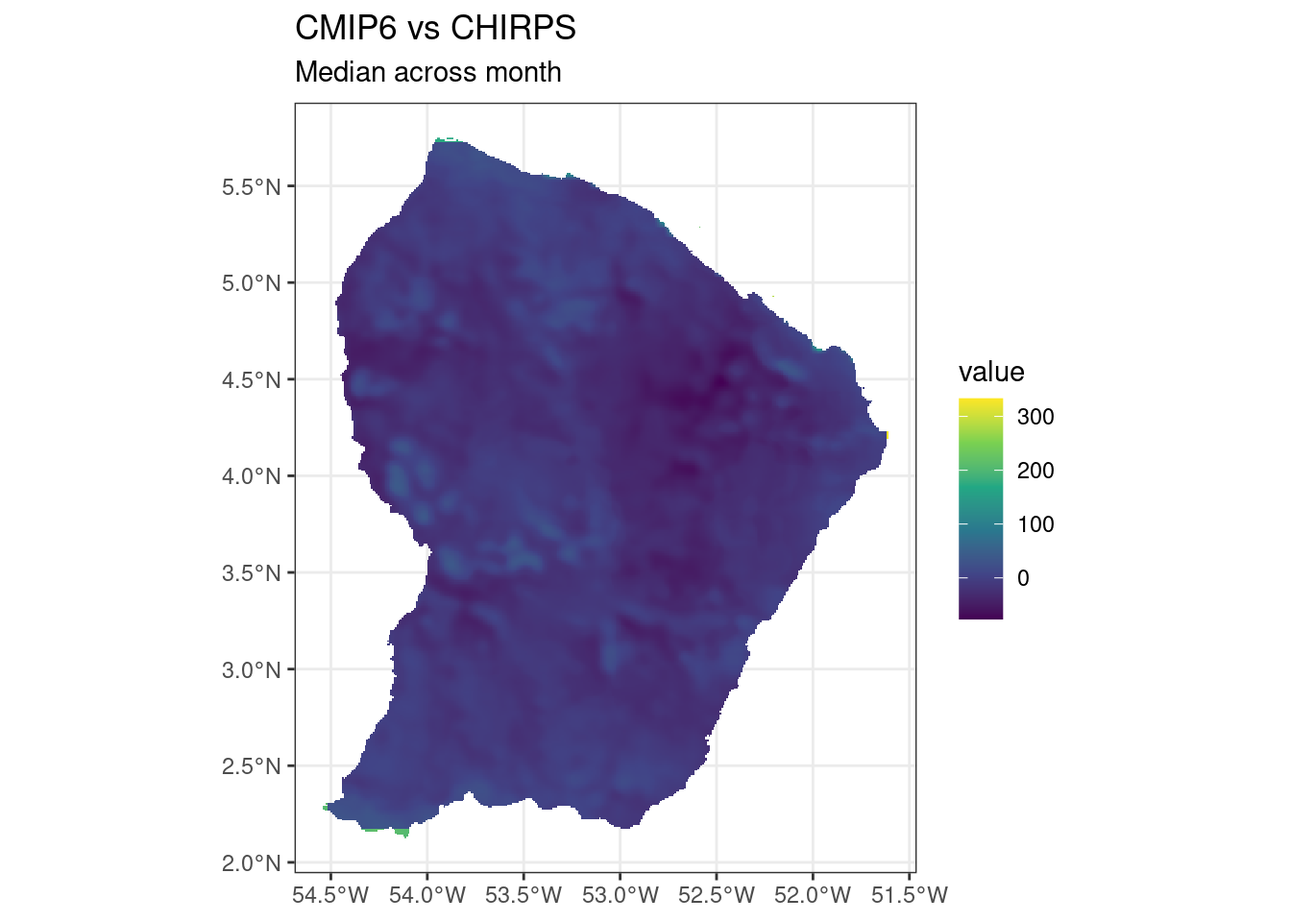
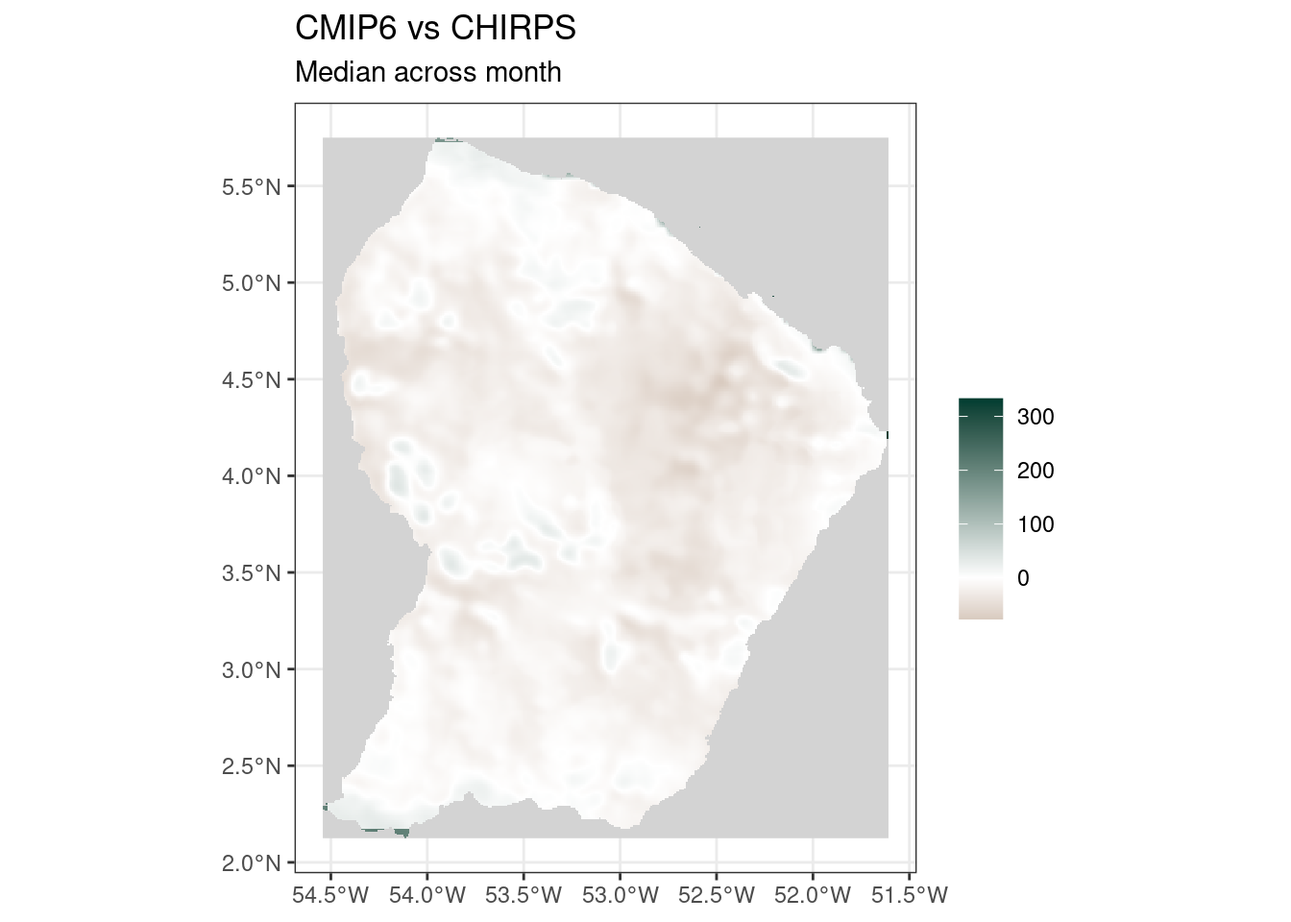
DownClim 0.1.0.9042: better bias map

diff --git a/docs/03_bias.html b/docs/03_bias.html
@@ -257,7 +257,7 @@ pre > code.sourceCode > span > a:first-child::before { text-decoration: underlin
 <span id="cb1-5"><a href="#cb1-5" aria-hidden="true" tabindex="-1"></a>  tidyterra<span class="sc">::</span><span class="fu">geom_spatraster</span>(<span class="at">data =</span> cmip6) <span class="sc">+</span></span>
 <span id="cb1-6"><a href="#cb1-6" aria-hidden="true" tabindex="-1"></a>  <span class="fu">theme_bw</span>() <span class="sc">+</span></span>
 <span id="cb1-7"><a href="#cb1-7" aria-hidden="true" tabindex="-1"></a>  <span class="fu">ggtitle</span>(<span class="st">"CMIP6 vs CHIRPS"</span>, <span class="st">"Median across month"</span>) <span class="sc">+</span></span>
-<span id="cb1-8"><a href="#cb1-8" aria-hidden="true" tabindex="-1"></a>  <span class="fu">scale_fill_viridis_c</span>(<span class="at">na.value =</span> <span class="cn">NA</span>)</span></code><button title="Copy to Clipboard" class="code-copy-button"><i class="bi"></i></button></pre></div>
+<span id="cb1-8"><a href="#cb1-8" aria-hidden="true" tabindex="-1"></a>  <span class="fu">scale_fill_gradient2</span>(<span class="st">""</span>, <span class="at">low =</span> <span class="st">"#543005"</span>, <span class="at">mid =</span> <span class="st">"white"</span>, <span class="at">high =</span> <span class="st">"#003c30"</span>, <span class="at">midpoint =</span> <span class="dv">0</span>, <span class="at">na.value =</span> <span class="st">"lightgrey"</span>)</span></code><button title="Copy to Clipboard" class="code-copy-button"><i class="bi"></i></button></pre></div>
 </details>
 <div class="cell-output-display">
 <p><img src="03_bias_files/figure-html/unnamed-chunk-1-1.png" class="img-fluid" width="672"></p>
@@ -266,12 +266,14 @@ pre > code.sourceCode > span > a:first-child::before { text-decoration: underlin
 <div class="cell">
 <details>
 <summary>Code</summary>
-<div class="sourceCode cell-code" id="cb2"><pre class="sourceCode r code-with-copy"><code class="sourceCode r"><span id="cb2-1"><a href="#cb2-1" aria-hidden="true" tabindex="-1"></a>cordex <span class="ot">&lt;-</span> <span class="fu">rast</span>(<span class="st">"results/evaluation/bias/Côte-d'Ivoire_CORDEX_chirps.nc"</span>)[[<span class="dv">1</span><span class="sc">:</span><span class="dv">12</span>]] <span class="sc">%&gt;%</span> <span class="fu">median</span>()</span>
-<span id="cb2-2"><a href="#cb2-2" aria-hidden="true" tabindex="-1"></a><span class="fu">ggplot</span>() <span class="sc">+</span></span>
-<span id="cb2-3"><a href="#cb2-3" aria-hidden="true" tabindex="-1"></a>  tidyterra<span class="sc">::</span><span class="fu">geom_spatraster</span>(<span class="at">data =</span> cordex) <span class="sc">+</span></span>
-<span id="cb2-4"><a href="#cb2-4" aria-hidden="true" tabindex="-1"></a>  <span class="fu">theme_bw</span>() <span class="sc">+</span></span>
-<span id="cb2-5"><a href="#cb2-5" aria-hidden="true" tabindex="-1"></a>  <span class="fu">ggtitle</span>(<span class="st">"CORDEX vs CHIRPS"</span>, <span class="st">"Median across month"</span>) <span class="sc">+</span></span>
-<span id="cb2-6"><a href="#cb2-6" aria-hidden="true" tabindex="-1"></a>  <span class="fu">scale_fill_viridis_c</span>(<span class="at">na.value =</span> <span class="cn">NA</span>)</span></code><button title="Copy to Clipboard" class="code-copy-button"><i class="bi"></i></button></pre></div>
+<div class="sourceCode cell-code" id="cb2"><pre class="sourceCode r code-with-copy"><code class="sourceCode r"><span id="cb2-1"><a href="#cb2-1" aria-hidden="true" tabindex="-1"></a>cordex <span class="ot">&lt;-</span> <span class="fu">rast</span>(<span class="st">"results/evaluation/bias/Côte-d'Ivoire_CORDEX_chirps.nc"</span>)[[<span class="dv">1</span><span class="sc">:</span><span class="dv">12</span>]] <span class="sc">%&gt;%</span> </span>
+<span id="cb2-2"><a href="#cb2-2" aria-hidden="true" tabindex="-1"></a>  <span class="fu">clamp</span>(<span class="sc">-</span><span class="dv">500</span>, <span class="dv">500</span>) <span class="sc">%&gt;%</span> </span>
+<span id="cb2-3"><a href="#cb2-3" aria-hidden="true" tabindex="-1"></a>  <span class="fu">median</span>()</span>
+<span id="cb2-4"><a href="#cb2-4" aria-hidden="true" tabindex="-1"></a><span class="fu">ggplot</span>() <span class="sc">+</span></span>
+<span id="cb2-5"><a href="#cb2-5" aria-hidden="true" tabindex="-1"></a>  tidyterra<span class="sc">::</span><span class="fu">geom_spatraster</span>(<span class="at">data =</span> cordex) <span class="sc">+</span></span>
+<span id="cb2-6"><a href="#cb2-6" aria-hidden="true" tabindex="-1"></a>  <span class="fu">theme_bw</span>() <span class="sc">+</span></span>
+<span id="cb2-7"><a href="#cb2-7" aria-hidden="true" tabindex="-1"></a>  <span class="fu">ggtitle</span>(<span class="st">"CORDEX vs CHIRPS"</span>, <span class="st">"Median across month"</span>) <span class="sc">+</span></span>
+<span id="cb2-8"><a href="#cb2-8" aria-hidden="true" tabindex="-1"></a>  <span class="fu">scale_fill_gradient2</span>(<span class="st">""</span>, <span class="at">low =</span> <span class="st">"#543005"</span>, <span class="at">mid =</span> <span class="st">"white"</span>, <span class="at">high =</span> <span class="st">"#003c30"</span>, <span class="at">midpoint =</span> <span class="dv">0</span>, <span class="at">na.value =</span> <span class="st">"lightgrey"</span>)</span></code><button title="Copy to Clipboard" class="code-copy-button"><i class="bi"></i></button></pre></div>
 </details>
 <div class="cell-output-display">
 <p><img src="03_bias_files/figure-html/unnamed-chunk-2-1.png" class="img-fluid" width="672"></p>
@@ -290,7 +292,7 @@ pre > code.sourceCode > span > a:first-child::before { text-decoration: underlin
 <span id="cb3-5"><a href="#cb3-5" aria-hidden="true" tabindex="-1"></a>  tidyterra<span class="sc">::</span><span class="fu">geom_spatraster</span>(<span class="at">data =</span> cmip6) <span class="sc">+</span></span>
 <span id="cb3-6"><a href="#cb3-6" aria-hidden="true" tabindex="-1"></a>  <span class="fu">theme_bw</span>() <span class="sc">+</span></span>
 <span id="cb3-7"><a href="#cb3-7" aria-hidden="true" tabindex="-1"></a>  <span class="fu">ggtitle</span>(<span class="st">"CMIP6 vs CHIRPS"</span>, <span class="st">"Median across month"</span>) <span class="sc">+</span></span>
-<span id="cb3-8"><a href="#cb3-8" aria-hidden="true" tabindex="-1"></a>  <span class="fu">scale_fill_viridis_c</span>(<span class="at">na.value =</span> <span class="cn">NA</span>)</span></code><button title="Copy to Clipboard" class="code-copy-button"><i class="bi"></i></button></pre></div>
+<span id="cb3-8"><a href="#cb3-8" aria-hidden="true" tabindex="-1"></a>  <span class="fu">scale_fill_gradient2</span>(<span class="st">""</span>, <span class="at">low =</span> <span class="st">"#543005"</span>, <span class="at">mid =</span> <span class="st">"white"</span>, <span class="at">high =</span> <span class="st">"#003c30"</span>, <span class="at">midpoint =</span> <span class="dv">0</span>, <span class="at">na.value =</span> <span class="st">"lightgrey"</span>)</span></code><button title="Copy to Clipboard" class="code-copy-button"><i class="bi"></i></button></pre></div>
 </details>
 <div class="cell-output-display">
 <p><img src="03_bias_files/figure-html/unnamed-chunk-3-1.png" class="img-fluid" width="672"></p>
@@ -306,7 +308,7 @@ pre > code.sourceCode > span > a:first-child::before { text-decoration: underlin
 <span id="cb4-5"><a href="#cb4-5" aria-hidden="true" tabindex="-1"></a>  tidyterra<span class="sc">::</span><span class="fu">geom_spatraster</span>(<span class="at">data =</span> cordex) <span class="sc">+</span></span>
 <span id="cb4-6"><a href="#cb4-6" aria-hidden="true" tabindex="-1"></a>  <span class="fu">theme_bw</span>() <span class="sc">+</span></span>
 <span id="cb4-7"><a href="#cb4-7" aria-hidden="true" tabindex="-1"></a>  <span class="fu">ggtitle</span>(<span class="st">"CORDEX vs CHIRPS"</span>, <span class="st">"Median across month"</span>) <span class="sc">+</span></span>
-<span id="cb4-8"><a href="#cb4-8" aria-hidden="true" tabindex="-1"></a>  <span class="fu">scale_fill_viridis_c</span>(<span class="at">na.value =</span> <span class="cn">NA</span>)</span></code><button title="Copy to Clipboard" class="code-copy-button"><i class="bi"></i></button></pre></div>
+<span id="cb4-8"><a href="#cb4-8" aria-hidden="true" tabindex="-1"></a>  <span class="fu">scale_fill_gradient2</span>(<span class="st">""</span>, <span class="at">low =</span> <span class="st">"#543005"</span>, <span class="at">mid =</span> <span class="st">"white"</span>, <span class="at">high =</span> <span class="st">"#003c30"</span>, <span class="at">midpoint =</span> <span class="dv">0</span>, <span class="at">na.value =</span> <span class="st">"lightgrey"</span>)</span></code><button title="Copy to Clipboard" class="code-copy-button"><i class="bi"></i></button></pre></div>
 </details>
 <div class="cell-output-display">
 <p><img src="03_bias_files/figure-html/unnamed-chunk-4-1.png" class="img-fluid" width="672"></p>
@@ -320,12 +322,13 @@ pre > code.sourceCode > span > a:first-child::before { text-decoration: underlin
 <summary>Code</summary>
 <div class="sourceCode cell-code" id="cb5"><pre class="sourceCode r code-with-copy"><code class="sourceCode r"><span id="cb5-1"><a href="#cb5-1" aria-hidden="true" tabindex="-1"></a>cmip6 <span class="ot">&lt;-</span> <span class="fu">rast</span>(<span class="st">"results/evaluation/bias/New-Caledonia_CMIP6_chirps.nc"</span>)[[<span class="dv">1</span><span class="sc">:</span><span class="dv">12</span>]] <span class="sc">%&gt;%</span> </span>
 <span id="cb5-2"><a href="#cb5-2" aria-hidden="true" tabindex="-1"></a>  <span class="fu">clamp</span>(<span class="sc">-</span><span class="dv">500</span>, <span class="dv">500</span>) <span class="sc">%&gt;%</span> </span>
-<span id="cb5-3"><a href="#cb5-3" aria-hidden="true" tabindex="-1"></a>  <span class="fu">median</span>()</span>
-<span id="cb5-4"><a href="#cb5-4" aria-hidden="true" tabindex="-1"></a><span class="fu">ggplot</span>() <span class="sc">+</span></span>
-<span id="cb5-5"><a href="#cb5-5" aria-hidden="true" tabindex="-1"></a>  tidyterra<span class="sc">::</span><span class="fu">geom_spatraster</span>(<span class="at">data =</span> cmip6) <span class="sc">+</span></span>
-<span id="cb5-6"><a href="#cb5-6" aria-hidden="true" tabindex="-1"></a>  <span class="fu">theme_bw</span>() <span class="sc">+</span></span>
-<span id="cb5-7"><a href="#cb5-7" aria-hidden="true" tabindex="-1"></a>  <span class="fu">ggtitle</span>(<span class="st">"CMIP6 vs CHIRPS"</span>, <span class="st">"Median across month"</span>) <span class="sc">+</span></span>
-<span id="cb5-8"><a href="#cb5-8" aria-hidden="true" tabindex="-1"></a>  <span class="fu">scale_fill_viridis_c</span>(<span class="at">na.value =</span> <span class="cn">NA</span>)</span></code><button title="Copy to Clipboard" class="code-copy-button"><i class="bi"></i></button></pre></div>
+<span id="cb5-3"><a href="#cb5-3" aria-hidden="true" tabindex="-1"></a>  <span class="fu">median</span>() <span class="sc">%&gt;%</span> </span>
+<span id="cb5-4"><a href="#cb5-4" aria-hidden="true" tabindex="-1"></a>  <span class="fu">crop</span>(<span class="fu">c</span>(<span class="dv">163</span>, <span class="fl">168.5</span>, <span class="sc">-</span><span class="dv">23</span>, <span class="sc">-</span><span class="dv">19</span>))</span>
+<span id="cb5-5"><a href="#cb5-5" aria-hidden="true" tabindex="-1"></a><span class="fu">ggplot</span>() <span class="sc">+</span></span>
+<span id="cb5-6"><a href="#cb5-6" aria-hidden="true" tabindex="-1"></a>  tidyterra<span class="sc">::</span><span class="fu">geom_spatraster</span>(<span class="at">data =</span> cmip6) <span class="sc">+</span></span>
+<span id="cb5-7"><a href="#cb5-7" aria-hidden="true" tabindex="-1"></a>  <span class="fu">theme_bw</span>() <span class="sc">+</span></span>
+<span id="cb5-8"><a href="#cb5-8" aria-hidden="true" tabindex="-1"></a>  <span class="fu">ggtitle</span>(<span class="st">"CMIP6 vs CHIRPS"</span>, <span class="st">"Median across month"</span>) <span class="sc">+</span></span>
+<span id="cb5-9"><a href="#cb5-9" aria-hidden="true" tabindex="-1"></a>  <span class="fu">scale_fill_gradient2</span>(<span class="st">""</span>, <span class="at">low =</span> <span class="st">"#543005"</span>, <span class="at">mid =</span> <span class="st">"white"</span>, <span class="at">high =</span> <span class="st">"#003c30"</span>, <span class="at">midpoint =</span> <span class="dv">0</span>, <span class="at">na.value =</span> <span class="st">"lightgrey"</span>)</span></code><button title="Copy to Clipboard" class="code-copy-button"><i class="bi"></i></button></pre></div>
 </details>
 <div class="cell-output-display">
 <p><img src="03_bias_files/figure-html/unnamed-chunk-5-1.png" class="img-fluid" width="672"></p>
@@ -336,12 +339,13 @@ pre > code.sourceCode > span > a:first-child::before { text-decoration: underlin
 <summary>Code</summary>
 <div class="sourceCode cell-code" id="cb6"><pre class="sourceCode r code-with-copy"><code class="sourceCode r"><span id="cb6-1"><a href="#cb6-1" aria-hidden="true" tabindex="-1"></a>cordex <span class="ot">&lt;-</span> <span class="fu">rast</span>(<span class="st">"results/evaluation/bias/New-Caledonia_CORDEX_chirps.nc"</span>)[[<span class="dv">1</span><span class="sc">:</span><span class="dv">12</span>]] <span class="sc">%&gt;%</span> </span>
 <span id="cb6-2"><a href="#cb6-2" aria-hidden="true" tabindex="-1"></a>  <span class="fu">clamp</span>(<span class="sc">-</span><span class="dv">500</span>, <span class="dv">500</span>) <span class="sc">%&gt;%</span> </span>
-<span id="cb6-3"><a href="#cb6-3" aria-hidden="true" tabindex="-1"></a>  <span class="fu">median</span>()</span>
-<span id="cb6-4"><a href="#cb6-4" aria-hidden="true" tabindex="-1"></a><span class="fu">ggplot</span>() <span class="sc">+</span></span>
-<span id="cb6-5"><a href="#cb6-5" aria-hidden="true" tabindex="-1"></a>  tidyterra<span class="sc">::</span><span class="fu">geom_spatraster</span>(<span class="at">data =</span> cordex) <span class="sc">+</span></span>
-<span id="cb6-6"><a href="#cb6-6" aria-hidden="true" tabindex="-1"></a>  <span class="fu">theme_bw</span>() <span class="sc">+</span></span>
-<span id="cb6-7"><a href="#cb6-7" aria-hidden="true" tabindex="-1"></a>  <span class="fu">ggtitle</span>(<span class="st">"CORDEX vs CHIRPS"</span>, <span class="st">"Median across month"</span>) <span class="sc">+</span></span>
-<span id="cb6-8"><a href="#cb6-8" aria-hidden="true" tabindex="-1"></a>  <span class="fu">scale_fill_viridis_c</span>(<span class="at">na.value =</span> <span class="cn">NA</span>)</span></code><button title="Copy to Clipboard" class="code-copy-button"><i class="bi"></i></button></pre></div>
+<span id="cb6-3"><a href="#cb6-3" aria-hidden="true" tabindex="-1"></a>  <span class="fu">median</span>() <span class="sc">%&gt;%</span> </span>
+<span id="cb6-4"><a href="#cb6-4" aria-hidden="true" tabindex="-1"></a>  <span class="fu">crop</span>(<span class="fu">c</span>(<span class="dv">163</span>, <span class="fl">168.5</span>, <span class="sc">-</span><span class="dv">23</span>, <span class="sc">-</span><span class="dv">19</span>))</span>
+<span id="cb6-5"><a href="#cb6-5" aria-hidden="true" tabindex="-1"></a><span class="fu">ggplot</span>() <span class="sc">+</span></span>
+<span id="cb6-6"><a href="#cb6-6" aria-hidden="true" tabindex="-1"></a>  tidyterra<span class="sc">::</span><span class="fu">geom_spatraster</span>(<span class="at">data =</span> cordex) <span class="sc">+</span></span>
+<span id="cb6-7"><a href="#cb6-7" aria-hidden="true" tabindex="-1"></a>  <span class="fu">theme_bw</span>() <span class="sc">+</span></span>
+<span id="cb6-8"><a href="#cb6-8" aria-hidden="true" tabindex="-1"></a>  <span class="fu">ggtitle</span>(<span class="st">"CORDEX vs CHIRPS"</span>, <span class="st">"Median across month"</span>) <span class="sc">+</span></span>
+<span id="cb6-9"><a href="#cb6-9" aria-hidden="true" tabindex="-1"></a>  <span class="fu">scale_fill_gradient2</span>(<span class="st">""</span>, <span class="at">low =</span> <span class="st">"#543005"</span>, <span class="at">mid =</span> <span class="st">"white"</span>, <span class="at">high =</span> <span class="st">"#003c30"</span>, <span class="at">midpoint =</span> <span class="dv">0</span>, <span class="at">na.value =</span> <span class="st">"lightgrey"</span>)</span></code><button title="Copy to Clipboard" class="code-copy-button"><i class="bi"></i></button></pre></div>
 </details>
 <div class="cell-output-display">
 <p><img src="03_bias_files/figure-html/unnamed-chunk-6-1.png" class="img-fluid" width="672"></p>
@@ -363,7 +367,7 @@ pre > code.sourceCode > span > a:first-child::before { text-decoration: underlin
 <span id="cb7-5"><a href="#cb7-5" aria-hidden="true" tabindex="-1"></a>  tidyterra<span class="sc">::</span><span class="fu">geom_spatraster</span>(<span class="at">data =</span> cmip6) <span class="sc">+</span></span>
 <span id="cb7-6"><a href="#cb7-6" aria-hidden="true" tabindex="-1"></a>  <span class="fu">theme_bw</span>() <span class="sc">+</span></span>
 <span id="cb7-7"><a href="#cb7-7" aria-hidden="true" tabindex="-1"></a>  <span class="fu">ggtitle</span>(<span class="st">"CMIP6 vs GSHTD"</span>, <span class="st">"Median across month"</span>) <span class="sc">+</span></span>
-<span id="cb7-8"><a href="#cb7-8" aria-hidden="true" tabindex="-1"></a>  <span class="fu">scale_fill_viridis_c</span>(<span class="at">na.value =</span> <span class="cn">NA</span>)</span></code><button title="Copy to Clipboard" class="code-copy-button"><i class="bi"></i></button></pre></div>
+<span id="cb7-8"><a href="#cb7-8" aria-hidden="true" tabindex="-1"></a>  <span class="fu">scale_fill_gradient2</span>(<span class="st">""</span>, <span class="at">low =</span> <span class="st">"#053061"</span>, <span class="at">mid =</span> <span class="st">"white"</span>, <span class="at">high =</span> <span class="st">"#67001f"</span>, <span class="at">midpoint =</span> <span class="dv">0</span>, <span class="at">na.value =</span> <span class="st">"lightgrey"</span>)</span></code><button title="Copy to Clipboard" class="code-copy-button"><i class="bi"></i></button></pre></div>
 </details>
 <div class="cell-output-display">
 <p><img src="03_bias_files/figure-html/unnamed-chunk-7-1.png" class="img-fluid" width="672"></p>
@@ -379,7 +383,7 @@ pre > code.sourceCode > span > a:first-child::before { text-decoration: underlin
 <span id="cb8-5"><a href="#cb8-5" aria-hidden="true" tabindex="-1"></a>  tidyterra<span class="sc">::</span><span class="fu">geom_spatraster</span>(<span class="at">data =</span> cordex) <span class="sc">+</span></span>
 <span id="cb8-6"><a href="#cb8-6" aria-hidden="true" tabindex="-1"></a>  <span class="fu">theme_bw</span>() <span class="sc">+</span></span>
 <span id="cb8-7"><a href="#cb8-7" aria-hidden="true" tabindex="-1"></a>  <span class="fu">ggtitle</span>(<span class="st">"CORDEX vs GSHTD"</span>, <span class="st">"Median across month"</span>) <span class="sc">+</span></span>
-<span id="cb8-8"><a href="#cb8-8" aria-hidden="true" tabindex="-1"></a>  <span class="fu">scale_fill_viridis_c</span>(<span class="at">na.value =</span> <span class="cn">NA</span>)</span></code><button title="Copy to Clipboard" class="code-copy-button"><i class="bi"></i></button></pre></div>
+<span id="cb8-8"><a href="#cb8-8" aria-hidden="true" tabindex="-1"></a>  <span class="fu">scale_fill_gradient2</span>(<span class="st">""</span>, <span class="at">low =</span> <span class="st">"#053061"</span>, <span class="at">mid =</span> <span class="st">"white"</span>, <span class="at">high =</span> <span class="st">"#67001f"</span>, <span class="at">midpoint =</span> <span class="dv">0</span>, <span class="at">na.value =</span> <span class="st">"lightgrey"</span>)</span></code><button title="Copy to Clipboard" class="code-copy-button"><i class="bi"></i></button></pre></div>
 </details>
 <div class="cell-output-display">
 <p><img src="03_bias_files/figure-html/unnamed-chunk-8-1.png" class="img-fluid" width="672"></p>
@@ -398,7 +402,7 @@ pre > code.sourceCode > span > a:first-child::before { text-decoration: underlin
 <span id="cb9-5"><a href="#cb9-5" aria-hidden="true" tabindex="-1"></a>  tidyterra<span class="sc">::</span><span class="fu">geom_spatraster</span>(<span class="at">data =</span> cmip6) <span class="sc">+</span></span>
 <span id="cb9-6"><a href="#cb9-6" aria-hidden="true" tabindex="-1"></a>  <span class="fu">theme_bw</span>() <span class="sc">+</span></span>
 <span id="cb9-7"><a href="#cb9-7" aria-hidden="true" tabindex="-1"></a>  <span class="fu">ggtitle</span>(<span class="st">"CMIP6 vs GSHTD"</span>, <span class="st">"Median across month"</span>) <span class="sc">+</span></span>
-<span id="cb9-8"><a href="#cb9-8" aria-hidden="true" tabindex="-1"></a>  <span class="fu">scale_fill_viridis_c</span>(<span class="at">na.value =</span> <span class="cn">NA</span>)</span></code><button title="Copy to Clipboard" class="code-copy-button"><i class="bi"></i></button></pre></div>
+<span id="cb9-8"><a href="#cb9-8" aria-hidden="true" tabindex="-1"></a>  <span class="fu">scale_fill_gradient2</span>(<span class="st">""</span>, <span class="at">low =</span> <span class="st">"#053061"</span>, <span class="at">mid =</span> <span class="st">"white"</span>, <span class="at">high =</span> <span class="st">"#67001f"</span>, <span class="at">midpoint =</span> <span class="dv">0</span>, <span class="at">na.value =</span> <span class="st">"lightgrey"</span>)</span></code><button title="Copy to Clipboard" class="code-copy-button"><i class="bi"></i></button></pre></div>
 </details>
 <div class="cell-output-display">
 <p><img src="03_bias_files/figure-html/unnamed-chunk-9-1.png" class="img-fluid" width="672"></p>
@@ -414,7 +418,7 @@ pre > code.sourceCode > span > a:first-child::before { text-decoration: underlin
 <span id="cb10-5"><a href="#cb10-5" aria-hidden="true" tabindex="-1"></a>  tidyterra<span class="sc">::</span><span class="fu">geom_spatraster</span>(<span class="at">data =</span> cordex) <span class="sc">+</span></span>
 <span id="cb10-6"><a href="#cb10-6" aria-hidden="true" tabindex="-1"></a>  <span class="fu">theme_bw</span>() <span class="sc">+</span></span>
 <span id="cb10-7"><a href="#cb10-7" aria-hidden="true" tabindex="-1"></a>  <span class="fu">ggtitle</span>(<span class="st">"CORDEX vs GSHTD"</span>, <span class="st">"Median across month"</span>) <span class="sc">+</span></span>
-<span id="cb10-8"><a href="#cb10-8" aria-hidden="true" tabindex="-1"></a>  <span class="fu">scale_fill_viridis_c</span>(<span class="at">na.value =</span> <span class="cn">NA</span>)</span></code><button title="Copy to Clipboard" class="code-copy-button"><i class="bi"></i></button></pre></div>
+<span id="cb10-8"><a href="#cb10-8" aria-hidden="true" tabindex="-1"></a>  <span class="fu">scale_fill_gradient2</span>(<span class="st">""</span>, <span class="at">low =</span> <span class="st">"#053061"</span>, <span class="at">mid =</span> <span class="st">"white"</span>, <span class="at">high =</span> <span class="st">"#67001f"</span>, <span class="at">midpoint =</span> <span class="dv">0</span>, <span class="at">na.value =</span> <span class="st">"lightgrey"</span>)</span></code><button title="Copy to Clipboard" class="code-copy-button"><i class="bi"></i></button></pre></div>
 </details>
 <div class="cell-output-display">
 <p><img src="03_bias_files/figure-html/unnamed-chunk-10-1.png" class="img-fluid" width="672"></p>
@@ -428,12 +432,13 @@ pre > code.sourceCode > span > a:first-child::before { text-decoration: underlin
 <summary>Code</summary>
 <div class="sourceCode cell-code" id="cb11"><pre class="sourceCode r code-with-copy"><code class="sourceCode r"><span id="cb11-1"><a href="#cb11-1" aria-hidden="true" tabindex="-1"></a>cmip6 <span class="ot">&lt;-</span> <span class="fu">rast</span>(<span class="st">"results/evaluation/bias/New-Caledonia_CMIP6_gshtd.nc"</span>)[[<span class="dv">1</span><span class="sc">:</span><span class="dv">12</span>]] <span class="sc">%&gt;%</span> </span>
 <span id="cb11-2"><a href="#cb11-2" aria-hidden="true" tabindex="-1"></a>  <span class="fu">clamp</span>(<span class="sc">-</span><span class="dv">5</span>, <span class="dv">5</span>) <span class="sc">%&gt;%</span> </span>
-<span id="cb11-3"><a href="#cb11-3" aria-hidden="true" tabindex="-1"></a>  <span class="fu">median</span>()</span>
-<span id="cb11-4"><a href="#cb11-4" aria-hidden="true" tabindex="-1"></a><span class="fu">ggplot</span>() <span class="sc">+</span></span>
-<span id="cb11-5"><a href="#cb11-5" aria-hidden="true" tabindex="-1"></a>  tidyterra<span class="sc">::</span><span class="fu">geom_spatraster</span>(<span class="at">data =</span> cmip6) <span class="sc">+</span></span>
-<span id="cb11-6"><a href="#cb11-6" aria-hidden="true" tabindex="-1"></a>  <span class="fu">theme_bw</span>() <span class="sc">+</span></span>
-<span id="cb11-7"><a href="#cb11-7" aria-hidden="true" tabindex="-1"></a>  <span class="fu">ggtitle</span>(<span class="st">"CMIP6 vs GSHTD"</span>, <span class="st">"Median across month"</span>) <span class="sc">+</span></span>
-<span id="cb11-8"><a href="#cb11-8" aria-hidden="true" tabindex="-1"></a>  <span class="fu">scale_fill_viridis_c</span>(<span class="at">na.value =</span> <span class="cn">NA</span>)</span></code><button title="Copy to Clipboard" class="code-copy-button"><i class="bi"></i></button></pre></div>
+<span id="cb11-3"><a href="#cb11-3" aria-hidden="true" tabindex="-1"></a>  <span class="fu">median</span>() <span class="sc">%&gt;%</span> </span>
+<span id="cb11-4"><a href="#cb11-4" aria-hidden="true" tabindex="-1"></a>  <span class="fu">crop</span>(<span class="fu">c</span>(<span class="dv">163</span>, <span class="fl">168.5</span>, <span class="sc">-</span><span class="dv">23</span>, <span class="sc">-</span><span class="dv">19</span>))</span>
+<span id="cb11-5"><a href="#cb11-5" aria-hidden="true" tabindex="-1"></a><span class="fu">ggplot</span>() <span class="sc">+</span></span>
+<span id="cb11-6"><a href="#cb11-6" aria-hidden="true" tabindex="-1"></a>  tidyterra<span class="sc">::</span><span class="fu">geom_spatraster</span>(<span class="at">data =</span> cmip6) <span class="sc">+</span></span>
+<span id="cb11-7"><a href="#cb11-7" aria-hidden="true" tabindex="-1"></a>  <span class="fu">theme_bw</span>() <span class="sc">+</span></span>
+<span id="cb11-8"><a href="#cb11-8" aria-hidden="true" tabindex="-1"></a>  <span class="fu">ggtitle</span>(<span class="st">"CMIP6 vs GSHTD"</span>, <span class="st">"Median across month"</span>) <span class="sc">+</span></span>
+<span id="cb11-9"><a href="#cb11-9" aria-hidden="true" tabindex="-1"></a>  <span class="fu">scale_fill_gradient2</span>(<span class="st">""</span>, <span class="at">low =</span> <span class="st">"#053061"</span>, <span class="at">mid =</span> <span class="st">"white"</span>, <span class="at">high =</span> <span class="st">"#67001f"</span>, <span class="at">midpoint =</span> <span class="dv">0</span>, <span class="at">na.value =</span> <span class="st">"lightgrey"</span>)</span></code><button title="Copy to Clipboard" class="code-copy-button"><i class="bi"></i></button></pre></div>
 </details>
 <div class="cell-output-display">
 <p><img src="03_bias_files/figure-html/unnamed-chunk-11-1.png" class="img-fluid" width="672"></p>
@@ -444,12 +449,13 @@ pre > code.sourceCode > span > a:first-child::before { text-decoration: underlin
 <summary>Code</summary>
 <div class="sourceCode cell-code" id="cb12"><pre class="sourceCode r code-with-copy"><code class="sourceCode r"><span id="cb12-1"><a href="#cb12-1" aria-hidden="true" tabindex="-1"></a>cordex <span class="ot">&lt;-</span> <span class="fu">rast</span>(<span class="st">"results/evaluation/bias/New-Caledonia_CORDEX_gshtd.nc"</span>)[[<span class="dv">1</span><span class="sc">:</span><span class="dv">12</span>]] <span class="sc">%&gt;%</span> </span>
 <span id="cb12-2"><a href="#cb12-2" aria-hidden="true" tabindex="-1"></a>  <span class="fu">clamp</span>(<span class="sc">-</span><span class="dv">5</span>, <span class="dv">5</span>) <span class="sc">%&gt;%</span> </span>
-<span id="cb12-3"><a href="#cb12-3" aria-hidden="true" tabindex="-1"></a>  <span class="fu">median</span>()</span>
-<span id="cb12-4"><a href="#cb12-4" aria-hidden="true" tabindex="-1"></a><span class="fu">ggplot</span>() <span class="sc">+</span></span>
-<span id="cb12-5"><a href="#cb12-5" aria-hidden="true" tabindex="-1"></a>  tidyterra<span class="sc">::</span><span class="fu">geom_spatraster</span>(<span class="at">data =</span> cordex) <span class="sc">+</span></span>
-<span id="cb12-6"><a href="#cb12-6" aria-hidden="true" tabindex="-1"></a>  <span class="fu">theme_bw</span>() <span class="sc">+</span></span>
-<span id="cb12-7"><a href="#cb12-7" aria-hidden="true" tabindex="-1"></a>  <span class="fu">ggtitle</span>(<span class="st">"CORDEX vs GSHTD"</span>, <span class="st">"Median across month"</span>) <span class="sc">+</span></span>
-<span id="cb12-8"><a href="#cb12-8" aria-hidden="true" tabindex="-1"></a>  <span class="fu">scale_fill_viridis_c</span>(<span class="at">na.value =</span> <span class="cn">NA</span>)</span></code><button title="Copy to Clipboard" class="code-copy-button"><i class="bi"></i></button></pre></div>
+<span id="cb12-3"><a href="#cb12-3" aria-hidden="true" tabindex="-1"></a>  <span class="fu">median</span>() <span class="sc">%&gt;%</span> </span>
+<span id="cb12-4"><a href="#cb12-4" aria-hidden="true" tabindex="-1"></a>  <span class="fu">crop</span>(<span class="fu">c</span>(<span class="dv">163</span>, <span class="fl">168.5</span>, <span class="sc">-</span><span class="dv">23</span>, <span class="sc">-</span><span class="dv">19</span>))</span>
+<span id="cb12-5"><a href="#cb12-5" aria-hidden="true" tabindex="-1"></a><span class="fu">ggplot</span>() <span class="sc">+</span></span>
+<span id="cb12-6"><a href="#cb12-6" aria-hidden="true" tabindex="-1"></a>  tidyterra<span class="sc">::</span><span class="fu">geom_spatraster</span>(<span class="at">data =</span> cordex) <span class="sc">+</span></span>
+<span id="cb12-7"><a href="#cb12-7" aria-hidden="true" tabindex="-1"></a>  <span class="fu">theme_bw</span>() <span class="sc">+</span></span>
+<span id="cb12-8"><a href="#cb12-8" aria-hidden="true" tabindex="-1"></a>  <span class="fu">ggtitle</span>(<span class="st">"CORDEX vs GSHTD"</span>, <span class="st">"Median across month"</span>) <span class="sc">+</span></span>
+<span id="cb12-9"><a href="#cb12-9" aria-hidden="true" tabindex="-1"></a>  <span class="fu">scale_fill_gradient2</span>(<span class="st">""</span>, <span class="at">low =</span> <span class="st">"#053061"</span>, <span class="at">mid =</span> <span class="st">"white"</span>, <span class="at">high =</span> <span class="st">"#67001f"</span>, <span class="at">midpoint =</span> <span class="dv">0</span>, <span class="at">na.value =</span> <span class="st">"lightgrey"</span>)</span></code><button title="Copy to Clipboard" class="code-copy-button"><i class="bi"></i></button></pre></div>
 </details>
 <div class="cell-output-display">
 <p><img src="03_bias_files/figure-html/unnamed-chunk-12-1.png" class="img-fluid" width="672"></p>

diff --git a/docs/index.html b/docs/index.html
@@ -7,7 +7,7 @@
 <meta name="viewport" content="width=device-width, initial-scale=1.0, user-scalable=yes">
 
 <meta name="author" content="Sylvain Schmitt">
-<meta name="dcterms.date" content="2024-05-16">
+<meta name="dcterms.date" content="2024-05-17">
 
 <title>DownClim - Downscale Climate Projections</title>
 <style>
@@ -223,7 +223,7 @@ div.csl-indent {
     <div>
     <div class="quarto-title-meta-heading">Published</div>
     <div class="quarto-title-meta-contents">
-      <p class="date">May 16, 2024</p>
+      <p class="date">May 17, 2024</p>
     </div>
   </div>
   

diff --git a/NEWS.md b/NEWS.md
@@ -1,3 +1,4 @@
+-   DownClim 0.1.0.9042: better bias map
 -   DownClim 0.1.0.9041: bias map computation and analyses
 -   DownClim 0.1.0.9040: new evaluations with chirps and gshtd with corresponding getters
 -   DownClim 0.1.0.9039: All results descriptions.
